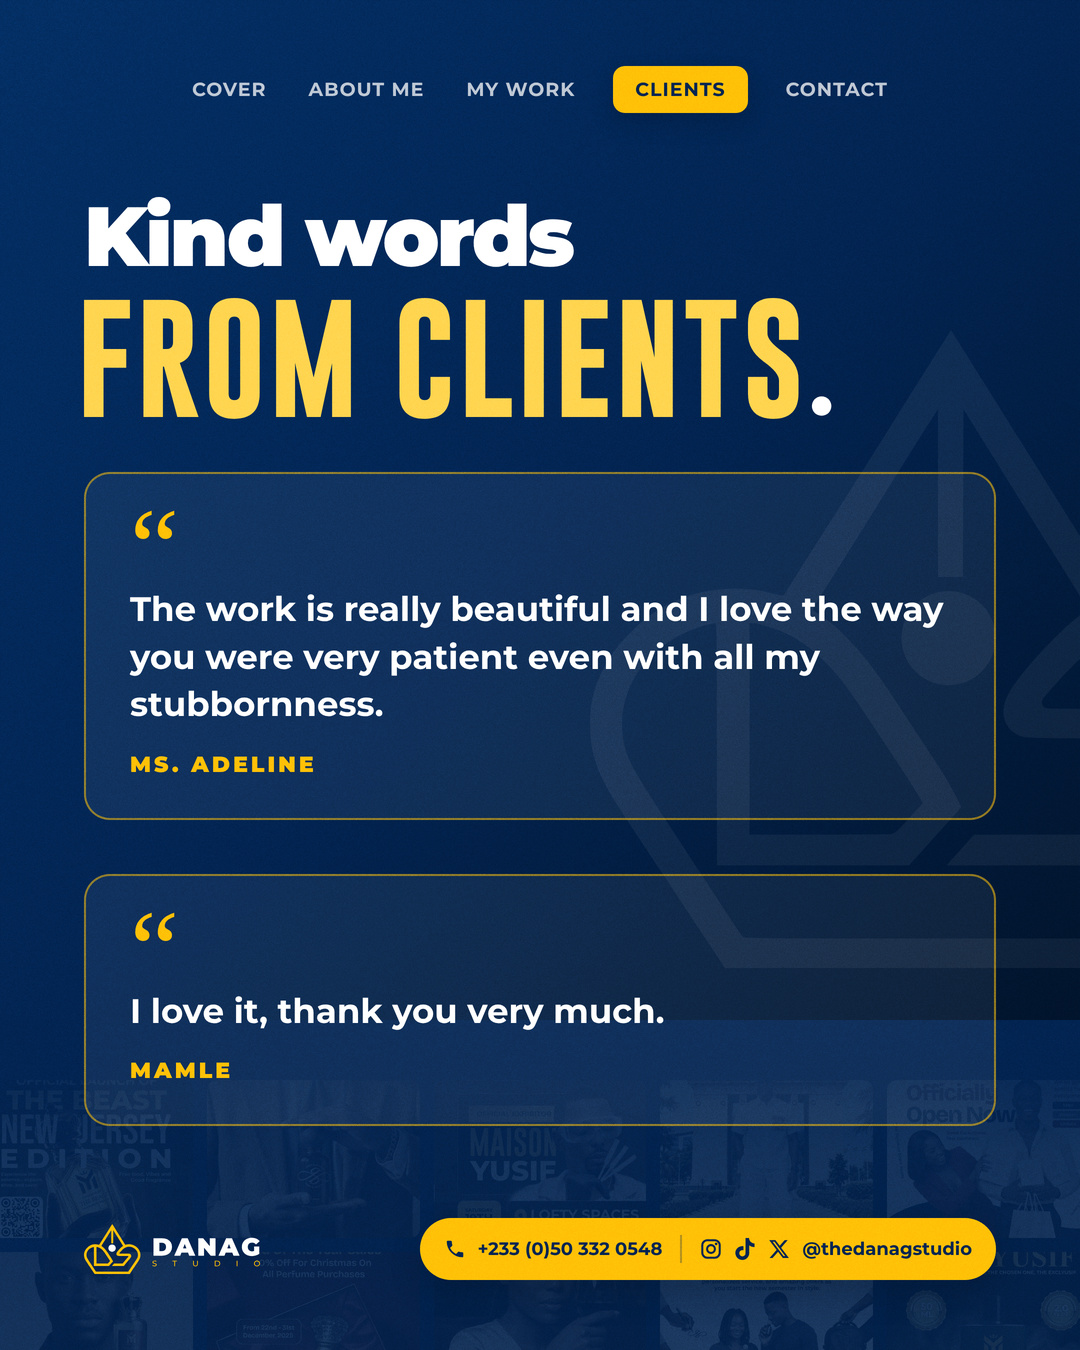
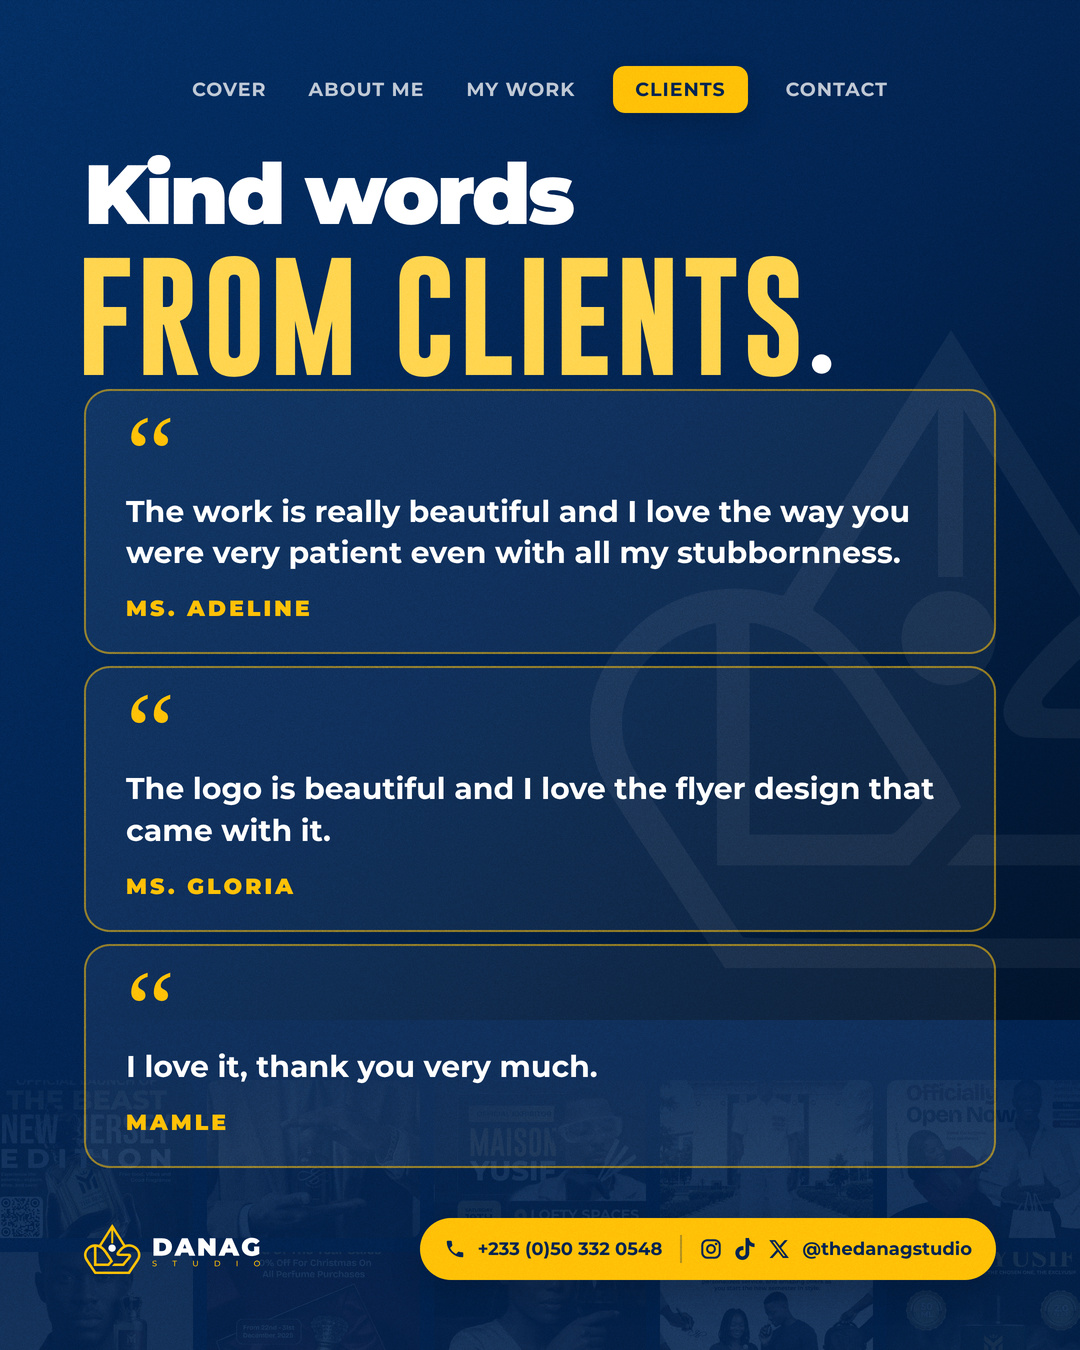
Add Ms. Gloria review (slide 8 + site)
Claude-Session: https://claude.ai/code/session_016a1VN4sEuNiBsko23wNLQZ

diff --git a/site/index.html b/site/index.html
@@ -78,7 +78,7 @@ nav img{height:40px}
 .cbox a{background:#fff;border-radius:18px;padding:22px;font-weight:700;box-shadow:0 14px 30px rgba(1,15,33,.08);display:block}
 .cbox small{display:block;font-size:12px;letter-spacing:.2em;color:#b38600;font-weight:900;margin-bottom:8px}
 footer{padding:36px 0;text-align:center;font-size:13px;color:rgba(255,255,255,.6)}
-.quotes{display:grid;grid-template-columns:1fr 1fr;gap:20px;margin-top:44px}
+.quotes{display:grid;grid-template-columns:repeat(3,1fr);gap:20px;margin-top:44px}
 .quotes blockquote{background:var(--ng);color:#fff;border-radius:22px;padding:34px;font-weight:700;font-size:20px;line-height:1.55}
 .quotes cite{display:block;margin-top:16px;font-style:normal;font-weight:900;font-size:13px;letter-spacing:.2em;color:var(--gold);text-transform:uppercase}
 .shots{columns:4 220px;column-gap:16px;margin-top:24px}.shots img{width:100%;margin-bottom:16px;border-radius:16px;border:3px solid var(--navy)}
@@ -131,6 +131,7 @@ footer{padding:36px 0;text-align:center;font-size:13px;color:rgba(255,255,255,.6
 
 <section id="reviews"><div class="wrap"><div class="kick">Clients</div><h2><small>In their</small>OWN WORDS<i class="dot"></i></h2>
 <div class="quotes"><blockquote>&ldquo;The work is really beautiful and I love the way you were very patient even with all my stubbornness.&rdquo;<cite>Ms. Adeline</cite></blockquote>
+<blockquote>&ldquo;The logo is beautiful and I love the flyer design that came with it.&rdquo;<cite>Ms. Gloria</cite></blockquote>
 <blockquote>&ldquo;I love it, thank you very much.&rdquo;<cite>Mamle</cite></blockquote></div>
 <div class="shots"><img src="img/review-1.jpg" alt="Client message"><img src="img/review-4.jpg" alt="Client message"><img src="img/review-2.jpg" alt="Client message"><img src="img/review-3.jpg" alt="Client message"></div></div></section>
 

diff --git a/promo/render_folio.py b/promo/render_folio.py
@@ -125,12 +125,13 @@ SL.append(frame(3, False, f"""<div style="display:flex;align-items:flex-end;gap:
  <div style="display:flex;flex-direction:column;gap:20px">{rv('r1', 340)}{rv('r2', 340)}</div>
  <div style="display:flex;flex-direction:column;gap:20px">{rv('r4', 340)}{rv('r3', 340)}</div></div>"""))
 # clients (navy): kind words
-q = lambda t, n: (f'<div style="background:rgba(255,255,255,.06);border:2px solid rgba(255,193,7,.55);border-radius:26px;padding:40px 44px">'
+q = lambda t, n: (f'<div style="background:rgba(255,255,255,.06);border:2px solid rgba(255,193,7,.55);border-radius:26px;padding:30px 40px">'
                   f'<div style="font-family:Georgia,serif;font-size:110px;line-height:.6;color:{GOLD}">&ldquo;</div>'
-                  f'<div style="font-weight:700;font-size:34px;line-height:1.4;margin-top:6px">{t}</div>'
+                  f'<div style="font-weight:700;font-size:30px;line-height:1.38;margin-top:4px">{t}</div>'
                   f'<div style="margin-top:22px;font-weight:900;font-size:22px;letter-spacing:3px;color:{GOLD}">{n}</div></div>')
 SL.append(frame(3, True, f"""<div style="text-align:left">{head('Kind words', 'FROM CLIENTS', True, maxw=760, cap=170)}</div>
 {q("The work is really beautiful and I love the way you were very patient even with all my stubbornness.", "MS. ADELINE")}
+{q("The logo is beautiful and I love the flyer design that came with it.", "MS. GLORIA")}
 {q("I love it, thank you very much.", "MAMLE")}"""))
 # contact (white)
 svc = ['Flyer &amp; Poster Design', 'Product Visuals', 'Social Media Design', 'Social Media Management', 'Brochure Design', 'Business Card Design', 'Website Design &amp; Redesign']
